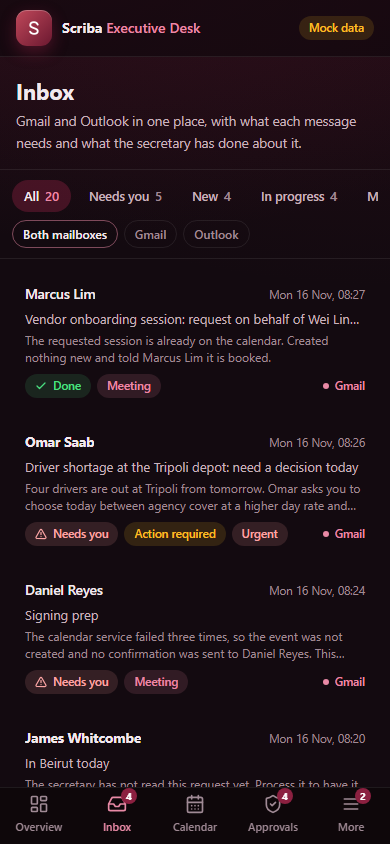
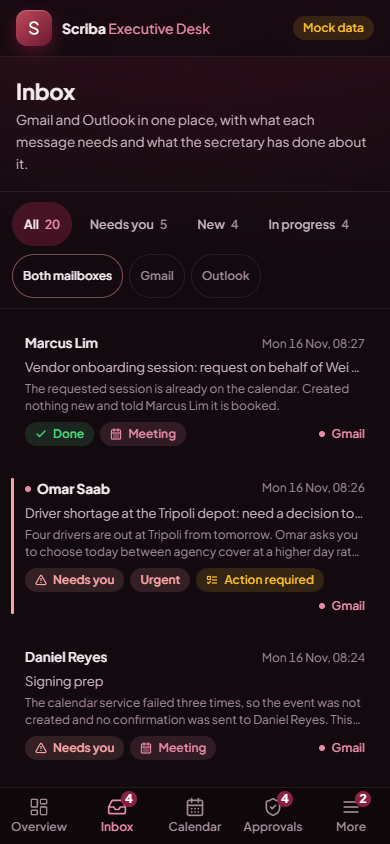
Handoff for Agent 1, feature status and retaken screenshots for the polish pass
docs/AGENT2_FRONTEND_HANDOFF.md: the audit and its priorities, what was improved, files changed,
tests and their results, what is mock and what is live, what is still needed from the backend,
three assumptions to confirm, and where a merge may conflict.

diff --git a/frontend/src/lib/featureStatus.ts b/frontend/src/lib/featureStatus.ts
@@ -39,6 +39,7 @@ export const STATUS_LABEL: Record<FeatureStatus, string> = {
 export const FEATURES: Feature[] = [
   { area: 'Workspace', name: 'Sign-in and session', status: 'connected', backend: 'Scriba session cookie; GET /providers/status; POST /auth/signin; POST /auth/logout', needs: 'Google and Microsoft sign-in are navigations to Scriba and were not exercised here' },
   { area: 'Workspace', name: 'Executive overview and work queue', status: 'connected', backend: 'GET /desk/briefing, GET /desk/inbox, GET /desk/connections, chat action records', needs: 'A backend work-queue listing, so the queue is not limited to recent conversations' },
+  { area: 'Workspace', name: 'Overview: waiting on you, with the secretary, and finished work', status: 'connected', backend: 'Chat action records and GET /desk/runs: counts and the finished list come from server statuses only', needs: 'A run for an actionable message on the seeded backend: in a browser only completed chat actions and a no-action run were seen' },
   { area: 'Workspace', name: 'Connected accounts (Gmail, Outlook Mail, Google Calendar, Outlook Calendar)', status: 'connected', backend: 'GET /desk/connections', needs: 'Nothing for the Desk; reconnecting happens in Scriba' },
   { area: 'Workspace', name: 'Activity and execution history', status: 'connected', backend: 'GET /chat/conversations and their messages: every action card with its server status', needs: 'The same work-queue listing; automation runs are not included yet' },
 

diff --git a/docs/AGENT2_FRONTEND_HANDOFF.md b/docs/AGENT2_FRONTEND_HANDOFF.md
@@ -1,0 +1,178 @@
+# Agent 2 frontend handoff
+
+Branch `agent2/frontend-excellence`, based on `main` at `a006db0`. Frontend and its documents only.
+Nothing under `backend/`, `docs/BACKEND_CONTRACT.md` or `frontend/src/api/` is changed, and no
+endpoint, request or response type is added or altered. Not merged.
+
+This pass audits and polishes screens that already existed. It adds no new data source: every
+number and state on a live screen still comes from the same server reads as before.
+
+Written 14 November 2026.
+
+## 1. Audit: what was wrong, in order of importance
+
+The audit ran every screen in demo mode and in live mode (on Scriba's seeded test backend) at
+1440, 768 and 375 px: 60 page loads, each checked for horizontal overflow, contrast, text size,
+target size, unnamed controls, heading order and failed requests, and then looked at by eye.
+
+Found clean: no horizontal overflow anywhere, no contrast failure, no unnamed control, one `h1` per
+screen with headings in order.
+
+| # | Problem | Where | Fixed |
+| --- | --- | --- | --- |
+| 1 | On a phone the overview stacked five full-width tiles, so the decisions waiting for the user started below the first screen | Overview (demo) | Yes |
+| 2 | The overview showed six equal tiles; nothing separated what is waiting on the user from what the secretary has in hand, and nothing listed what it had finished | Overview (live) | Yes |
+| 3 | On a phone the action card footer squeezed "Updated Wed 15 Jul, 08:05" into a four-line column beside the buttons | Approval center, activity, chat, run detail (live) | Yes |
+| 4 | Text under 12 px (10 to 11.5 px) on every screen: chips, section labels, badges, timestamps. 46 places in the code, plus the shared chip and label styles | Everywhere | Yes |
+| 5 | Small touch targets: task checkboxes 20 px, "View" links 28 by 22, section links 22 px high | Tasks, activity, overview | Yes |
+| 6 | A step that failed three times appeared as three identical rows; there was no way to see only what failed or what is waiting | Activity (demo) | Yes |
+| 7 | Every inbox row carried the same weight: a "For information" chip looked like an "Action required" chip, and urgent mail was marked only by one chip among several | Inbox | Yes |
+| 8 | Filter rows that scroll sideways were cut mid-word with no sign that more followed | Inbox, activity, calendar day picker, chat prompts, work queue | Yes |
+| 9 | Six empty headline tiles, each drawing a large dash, took two rows before any result existed | Evaluation | Yes |
+| 10 | The week view did not show where the day had got to, and a conflict was marked by border colour only | Calendar | Yes |
+| 11 | A chat reply carrying several actions gave no count and no order; assistant messages were not labelled | Secretary chat (live) | Yes |
+| 12 | Page titles disagreed with the navigation ("Approval Center", "Evaluation Dashboard", "Secretary Chat") | Three screens | Yes |
+| 13 | Every page load requested a favicon that did not exist (404 in the console) | All | Yes |
+
+Looked at and left alone, with the reason:
+
+| Observation | Why it was left |
+| --- | --- |
+| The live overview shows skeleton rows for several seconds on the seeded backend | The briefing read is slow there. The screen already shows each section as its own read finishes; hiding the wait would mean showing something not yet known |
+| Page subtitles take three lines on a phone | They carry the trust statements ("nothing here has happened yet"). Cutting them was judged worse than the space |
+| Four evaluation case buttons are 38 px high on a phone | Above the 24 px minimum; changing the grid would reflow the twenty-case strip |
+| The inbox detail pane is empty until a message is chosen | Choosing one automatically would mark a read the user did not make |
+
+## 2. Features improved
+
+**Overview (live).** The six tiles are one strip in two halves. "Waiting on you": awaiting approval,
+failed or partial, mail that needs action. "With the secretary": arrived, executing, completed. A
+new section, "Handled by the secretary", lists finished work: chat actions whose server status is
+`executed`, and Desk runs whose state puts them in the "completed" or "no action needed" group. A
+proposal that is waiting and an action that failed are never listed there. On a phone the
+explanations under the numbers are dropped, except when a read failed.
+
+**Overview (demo).** Tiles sit two to a row on a phone, with the approvals tile across the top.
+
+**Inbox.** Urgent and high-priority mail has a rail down the side and the word. Each kind of mail has
+its own icon (meeting, action, reply, follow-up). Mail that asks for nothing is labelled in plain
+text. Unread mail has a dot and is announced as unread.
+
+**Calendar.** Today's column is tinted; a line marks the current time, on today only and only inside
+the hours shown; an event in conflict carries a warning mark beside its title.
+
+**Secretary chat (live).** Assistant messages are labelled "Secretary". A reply with more than one
+action says how many there are and where each stands, from the server statuses, and numbers the
+cards ("Action 2 of 3").
+
+**Approval cards (live).** On a phone the source and time take their own line above the buttons.
+
+**Activity (demo).** A second filter row by outcome (waiting, failed, done, rejected) with counts.
+Identical consecutive records are one row with a count ("Tried 3 times") and the time span.
+
+**Evaluation.** The six headline numbers are one strip. A number that does not exist is drawn small
+and grey. No number is added or changed.
+
+**Everywhere.** No text under 12 px. Small links and checkboxes get a 44 px touch area without
+changing their size in the layout. Rows that scroll sideways fade at the trailing edge. A favicon.
+Titles match the navigation.
+
+## 3. Files changed
+
+Screens and components: `frontend/src/live/LiveOverviewPage.tsx`, `LiveChatPage.tsx`,
+`ToolCallCard.tsx`; `frontend/src/pages/OverviewPage.tsx`, `InboxPage.tsx`, `CalendarPage.tsx`,
+`ActivityPage.tsx`, `EvaluationPage.tsx`, `ApprovalsPage.tsx`, `ChatPage.tsx`, `TasksPage.tsx`.
+
+Styles and shell: `frontend/src/index.css` (the `.hit` touch area, the `.scroll-fade` edge),
+`frontend/index.html` (favicon, theme colour).
+
+Text size only (a class name changed from an 10 to 11.5 px size to 12 px): `components/ActionTimeline.tsx`,
+`AppShell.tsx`, `ApprovalCard.tsx`, `CaseDetail.tsx`, `RequestDetail.tsx`, `RunCard.tsx`,
+`workspace.tsx`, `live/LiveRunDetail.tsx`, `live/LiveWorkPages.tsx`, `live/LiveWorkQueuePage.tsx`.
+
+Tests: `frontend/src/App.test.tsx`, `frontend/src/Desk.test.tsx`, new
+`frontend/src/pages/presentation.test.ts`.
+
+Documents: this file, `docs/frontend/FEATURE_STATUS.md` (generated from
+`frontend/src/lib/featureStatus.ts`, one entry added), `docs/frontend/screenshots/` (15 demo images
+and 5 live-seeded images retaken, with their notes).
+
+## 4. Tests performed
+
+All run on this branch on 14 November 2026.
+
+| What | Result |
+| --- | --- |
+| Frontend tests | 383 passed in 21 files (`main`: 372 in 20) |
+| Type check | Clean |
+| Production build | Clean; largest script 242 kB, no chunk over 500 kB |
+| Harness self-test | Passed: every reference script passes, every planted defect is caught |
+| Mutation check on the new tests | 16 planted defects, 16 caught. Two more were discarded because they did not change behaviour |
+| Browser, demo mode, 1440 / 768 / 375 px | 30 page loads: no overflow, no contrast failure, no text under 12 px, no failed request |
+| Browser, live mode on the seeded backend, 1440 / 768 / 375 px | 30 page loads: the same |
+| Touch targets on an emulated touch phone (375 px), 20 page loads | No control under 40 px in either direction, except: the skip link (shown on focus), four 38 px evaluation buttons, and the 16 px box of the work queue's timer option, whose whole label is the target |
+
+New tests cover: the two halves of the overview strip and which tile is in which; the finished-work
+list (present only for server-reported completion, absent for waiting and failed work); inbox
+priority rail, kind icons and the quiet label; the calendar now line and conflict mark; activity
+outcome filter and collapsed repeats; the chat summary for several actions.
+
+Not covered by an automated test: the 12 px floor, the touch areas and the edge fade are CSS, and
+the unit tests run without CSS. They were measured in the browser passes above.
+
+One caution about the browser passes: the seeded backend has no mail that needs work and no
+connected calendar. Live screens were seen with completed chat actions, two task proposals and one
+no-action run. A run awaiting approval, a held meeting request and a partly executed action were
+not seen in a browser on this branch either; they remain covered by tests on the contract's shapes.
+
+## 5. What is mock and what is live
+
+Unchanged by this branch. The full list is `docs/frontend/FEATURE_STATUS.md`.
+
+Live (reads Scriba or the Desk overlay): overview, work queue, run detail, inbox, calendar,
+find a time, tasks, reminders, secretary chat, approval center, activity, connected accounts.
+
+Mock only, and labelled as such on screen: demo mode (`npm run dev:demo`), where every screen runs
+on fictional data; the evaluation screen's scripted reference agent. The activity outcome filter
+and the collapsed repeats are on the demo activity screen: the live activity screen lists Scriba's
+action cards and already filters by stage.
+
+Nothing mock is shown in live mode, and a failed live read is still shown as a failure.
+
+## 6. Backend capabilities still needed
+
+None is new. This pass asks for nothing that is not already listed in
+`docs/frontend/AGENT2_FRONTEND_STATUS.md` section 7 and `docs/frontend/LIVE_INTEGRATION.md`. The
+ones this pass ran into again:
+
+- A state per row on `GET /desk/runs`, so the overview and the work queue do not read runs one by one.
+- A work-queue listing across conversations, so "Completed" and the finished-work list are not
+  limited to the twelve most recent conversations.
+- Tracking of sent mail awaiting a reply; until then the overview says follow-ups are not tracked.
+- Evaluation routes for the real agent; until then every headline number stays empty.
+
+## 7. Assumptions that need Agent 1's confirmation
+
+1. **A completed action and its run may both appear as finished work.** The finished-work list takes
+   completed chat actions and completed runs. If a run's action is also returned as a chat action in
+   a recent conversation, the same piece of work can be listed twice (once by its action, once by
+   its message). If `DeskRun.actions[].toolCallId` always matches a chat tool call id, say so and
+   the list will drop the action when its run is listed.
+2. **`no_action_proposed` is treated as handled.** A run in that state is listed under "Handled by the
+   secretary" as "No action needed". If that state can also mean "the secretary could not tell",
+   it belongs under "Waiting on you" instead.
+3. **A status this frontend does not know counts as planning**, never as completed, in the chat
+   summary. This follows the existing rule in `frontend/src/live/workQueue.ts`.
+
+## 8. Possible integration conflicts
+
+- `frontend/src/live/LiveOverviewPage.tsx` is restructured (the status strip and one new section).
+  A concurrent edit to the same file will conflict; the data it reads is unchanged.
+- The region formerly labelled "Work queue" on the overview is now "Where the work stands", because
+  "Work queue" is also the name of a screen. A test or script that looks the region up by its old
+  name needs the new one.
+- The headings "Approval Center" and "Evaluation Dashboard" are now "Approval center" and
+  "Evaluation".
+- Text-size class names changed in ten shared components. A branch that edits the same lines will
+  see small conflicts that are safe to resolve either way, as long as no size under 12 px returns.
+- No file Agent 1 owns is touched, so no conflict is expected with backend work.

diff --git a/docs/frontend/FEATURE_STATUS.md b/docs/frontend/FEATURE_STATUS.md
@@ -6,7 +6,7 @@ What the Executive Desk frontend does on live data (the default mode), and what 
 
 | Status | Meaning | Features |
 | --- | --- | --- |
-| Connected, verified on the seeded backend | Uses Scriba's real API, and was exercised in a browser against Scriba's seeded backend with the Desk overlay | 19 |
+| Connected, verified on the seeded backend | Uses Scriba's real API, and was exercised in a browser against Scriba's seeded backend with the Desk overlay | 20 |
 | Connected, not verified end to end | Calls the real endpoint, but needs a model or a live provider to exercise. Covered by unit tests only | 9 |
 | Waiting for a backend | No backend exists for it. The live screen says so and shows nothing in its place | 7 |
 | Not implemented | Not built | 1 |
@@ -19,6 +19,7 @@ The seeded backend is Scriba's real application with in-memory storage: no datab
 | --- | --- | --- | --- |
 | Sign-in and session | Connected, verified on the seeded backend | Scriba session cookie; GET /providers/status; POST /auth/signin; POST /auth/logout | Google and Microsoft sign-in are navigations to Scriba and were not exercised here |
 | Executive overview and work queue | Connected, verified on the seeded backend | GET /desk/briefing, GET /desk/inbox, GET /desk/connections, chat action records | A backend work-queue listing, so the queue is not limited to recent conversations |
+| Overview: waiting on you, with the secretary, and finished work | Connected, verified on the seeded backend | Chat action records and GET /desk/runs: counts and the finished list come from server statuses only | A run for an actionable message on the seeded backend: in a browser only completed chat actions and a no-action run were seen |
 | Connected accounts (Gmail, Outlook Mail, Google Calendar, Outlook Calendar) | Connected, verified on the seeded backend | GET /desk/connections | Nothing for the Desk; reconnecting happens in Scriba |
 | Activity and execution history | Connected, verified on the seeded backend | GET /chat/conversations and their messages: every action card with its server status | The same work-queue listing; automation runs are not included yet |
 

diff --git a/docs/frontend/screenshots/live-seeded/README.md b/docs/frontend/screenshots/live-seeded/README.md
@@ -1,6 +1,6 @@
 # Screenshots: live mode on the seeded backend
 
-Taken on 14 November 2026 by a scripted Chrome session, signed in as a seeded user, against
+Taken on 14 November 2026 by a scripted Chrome session (`overview`, `approval-center` and `activity` retaken the same day after the polish pass on `agent2/frontend-excellence`), signed in as a seeded user, against
 Scriba's seeded test backend with the Desk overlay (`backend/dev/seeded_desk_server.py`, Scriba at
 `3ae3a2a`). That backend is the real application with in-memory storage: no database, no provider
 network, no model. Its people and messages are Scriba's own test fixtures.
@@ -10,11 +10,12 @@ calendar was involved, and nothing here is a result about the agent.
 
 | File | Screen | What the backend had |
 | --- | --- | --- |
-| `overview.png` | Overview | Seeded mail, tasks and one action card waiting in chat |
+| `overview.png`, `overview-phone.png` | Overview: what is waiting on the user, what is with the secretary, and finished work | Seeded mail, two task proposals waiting, two completed actions, one run with no action needed |
 | `work-queue.png`, `work-queue-phone.png` | Work queue, after "Check for new work" | 25 messages examined, none needing work; one earlier run with no action |
 | `run-detail.png`, `run-detail-phone.png` | Run detail | A run for an informational message: picked up, classified, no action needed |
 | `find-a-time.png`, `find-a-time-phone.png` | Scheduling workspace | No calendar connected, so no time is offered and availability is stated as unknown |
-| `approval-center.png` | Approval center | The seeded task proposal; sending and calendar changes are switched off |
+| `approval-center.png`, `approval-center-phone.png` | Approval center | The seeded task proposals; sending and calendar changes are switched off |
+| `activity.png` | Activity | The seeded action cards with their server statuses |
 
 Desktop images are 1440 by 900, phone images 390 by 844.
 

diff --git a/docs/frontend/screenshots/README.md b/docs/frontend/screenshots/README.md
@@ -1,6 +1,6 @@
 # Screenshots
 
-Taken from the app running on the in-memory mock (`npm run dev`), on 13 November 2026. Every person, company, email and calendar entry shown is fictional, and every address uses the reserved `.example` domain. Nothing shown was sent, and no real mailbox or calendar was involved.
+Taken from the app running on the in-memory mock (`npm run dev:demo`), by a scripted Chrome session. All but `approval-failed.png` were retaken on 14 November 2026 after the polish pass on `agent2/frontend-excellence`; `approval-failed.png` is from 13 November. Every person, company, email and calendar entry shown is fictional, and every address uses the reserved `.example` domain. Nothing shown was sent, and no real mailbox or calendar was involved.
 
 Desktop shots are 1440 by 900. Phone shots are 390 by 844.
 
@@ -16,7 +16,7 @@ Desktop shots are 1440 by 900. Phone shots are 390 by 844.
 | `chat.png` | Secretary chat with the agent's steps and an approval card inline |
 | `approvals.png`, `approvals-phone.png` | Approval center: proposals waiting for a decision |
 | `approval-failed.png` | An approved proposal whose execution failed: step results and the recovery block |
-| `activity.png` | Activity history |
-| `evaluation.png` | Evaluation dashboard before any real run: the desk suite by area, and empty headline numbers |
+| `activity.png`, `activity-phone.png` | Activity history: the outcome filter, and a step that failed several times in a row shown as one row with its count |
+| `evaluation.png` | Evaluation before any real run: the desk suite by area, and empty headline numbers |
 
-The evaluation dashboard shows no pass rate, cost or latency because no run against a real agent exists.
+The evaluation screen shows no pass rate, cost or latency because no run against a real agent exists.

diff --git a/docs/frontend/AGENT2_FRONTEND_STATUS.md b/docs/frontend/AGENT2_FRONTEND_STATUS.md
@@ -6,6 +6,9 @@ project lead.
 
 Nothing in this report is a result about the agent. No real model, mailbox or calendar was used.
 
+That branch is merged (`a006db0`). The later polish pass on `agent2/frontend-excellence` is
+reported in `docs/AGENT2_FRONTEND_HANDOFF.md`.
+
 ## 1. Commits on this branch
 
 | Commit | What |
